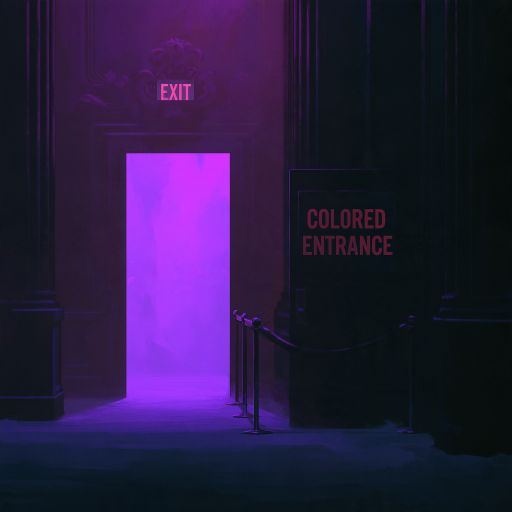
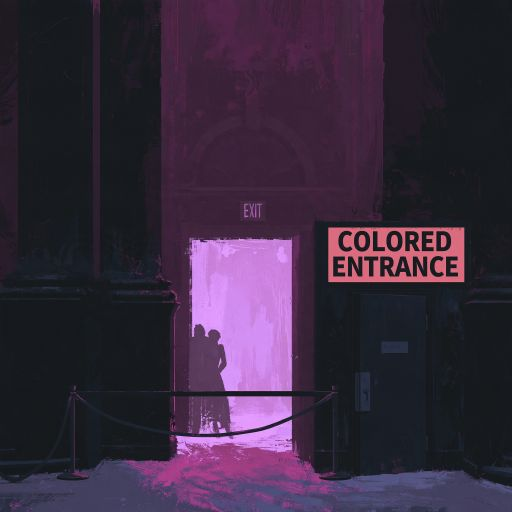
Art: the Land Office Threat, a new Color Line, Bois Caiman and the Ancestors Events
Threats at 512px; Events at the 1024px spec size. The Color Line portrait
is replaced. docs regenerated: one piece to go (Word of Mouth).

Claude-Session: https://claude.ai/code/session_01CdCWBBELLp3cWMWqqhgQtC

diff --git a/docs/art-needed.md b/docs/art-needed.md
@@ -1,6 +1,6 @@
 # Art needed
 
-Regenerated by `npm run docs` from what is in `public/art`. **4 to go, 108 in.** Send finished files in any zip, named anything; they get resized and filed under the ids below. Full framing rules in `docs/art-spec.md`.
+Regenerated by `npm run docs` from what is in `public/art`. **1 to go, 111 in.** Send finished files in any zip, named anything; they get resized and filed under the ids below. Full framing rules in `docs/art-spec.md`.
 
 Order of priority: cards in the most preset decks first, and among those the ones in the first three slots of a deck row (visible on the landing page without scrolling). Cards outside every preset deck come last: they show only in the Compendium and in random decks.
 
@@ -26,7 +26,6 @@ Square, 1024 px. One clear silhouette, high contrast, one signature colour per T
 
 | id | Threat | Family | Brief |
 |---|---|---|---|
-| `land_office` | The Land Office | Systemic Pressure | The Homestead Act of 1862 offered 160 acres for five years of residence, to citizens, which Black Americans were not until 1866. The Southern Homestead Act then opened poor land for ten years through slow and hostile land offices; about four thousand Black families got through. On the Plains some 3,500 more proved up, at Nicodemus, DeWitty, Dearfield and Blackdom, out of 1.6 million homesteads in all. |
 
 ## Events
 
@@ -34,13 +33,11 @@ Square, 1024 px, same crop as Characters; a scene rather than a portrait.
 
 | id | Event | Brief |
 |---|---|---|
-| `bois_caiman` | Bois Caïman | A pig, an oath, a week. Then the north of Saint-Domingue burned. |
-| `the_ancestors` | The Ancestors | Never in a deck. In one match out of four they come to whoever holds three Characters Inside at Accra, Ghana. |
 | `word_of_mouth` | Word of Mouth | Free, fast and usually right. It travels further where more of your people are. |
 
 ## In
 
 - characters (80): abraham_lincoln, absalom_jones, alonzo_herndon, anansi, ayuba_suleiman_diallo, bass_reeves, ben_woolfolk, bessie_coleman, black_jesus, booker_t_washington, boukman_dutty, bud_billiken, callie_house, cathay_williams, cecile_fatiman, chairteenth, charles_sumner, claudette_colvin, cotton_club_orchestra, daniel_payne, dave_the_potter, david_ruggles, denmark_vesey, edmonia_lewis, edward_bannister, elizabeth_freeman, frederick_douglass, george_washington_carver, george_wilson, harriet_powers, harriet_tubman, henry_mcneal_turner, henry_ossawa_tanner, ida_b_wells, james_lafayette, john_brown, john_russwurm, katherine_johnson, lewis_hayden, madam_cj_walker, mami_wata, mansa_musa, marcus_garvey, marie_laveau, mary_ann_shadd_cary, mary_ellen_pleasant, mary_seacole, menelik_ii, nanny_of_the_maroons, nehanda, og, ogun, omar_ibn_said, organizer, oshun, paul_laurence_dunbar, peter_prioleau, pharoah_and_tom, queen_nzinga, richard_allen, robert_duncanson, robert_smalls, roger_taney, samuel_ajayi_crowther, scott_joplin, shango, sleeping_car_porters, sojourner_truth, taytu_betul, thaddeus_stevens, tom_bass, toussaint_louverture, victor_hugo_green, william_lloyd_garrison, william_parker, william_still, yaa_asantewaa, yemoja, zora_neale_hurston, zumbi_dos_palmares
-- events (2): community_defense, reparations
-- threats (8): color_line, comfortable_complicity, dewolf_trade, dred_scott, housing_restriction, mob, paddy_roller, segregationist_patrol
+- events (4): bois_caiman, community_defense, reparations, the_ancestors
+- threats (9): color_line, comfortable_complicity, dewolf_trade, dred_scott, housing_restriction, land_office, mob, paddy_roller, segregationist_patrol
 - locations (20): accra_ghana, black_star, charleston_1822, cotton_club, gary_indiana, great_migration, greenwood, harlem_renaissance, harpers_ferry, jim_crow, juneteenth, justice_system, lagos, middle_passage, montgomery, oak_bluffs, sundown_town, sundown_town_night, the_stroll, the_tabernacle

diff --git a/docs/art-spec.md b/docs/art-spec.md
@@ -29,15 +29,14 @@ Confronting a Threat should feel like a showdown. To stage it we want, per Threa
 - none
 
 
-### events (3)
+### events (1)
 
-- `bois_caiman` **Bois Caïman**: A pig, an oath, a week. Then the north of Saint-Domingue burned.
-- `the_ancestors` **The Ancestors**: Never in a deck. In one match out of four they come to whoever holds three Characters Inside at Accra, Ghana.
 - `word_of_mouth` **Word of Mouth**: Free, fast and usually right. It travels further where more of your people are.
 
-### threats (1)
+### threats (0)
 
-- `land_office` **The Land Office**: The Homestead Act of 1862 offered 160 acres for five years of residence, to citizens, which Black Americans were not until 1866. The Southern Homestead Act then opened poor land for ten years through slow and hostile land offices; about four thousand Black families got through. On the Plains some 3,500 more proved up, at Nicodemus, DeWitty, Dearfield and Blackdom, out of 1.6 million homesteads in all.
+- none
+
 
 ### locations (0)
 
@@ -52,6 +51,6 @@ Confronting a Threat should feel like a showdown. To stage it we want, per Threa
 ## Have
 
 - characters: abraham_lincoln, absalom_jones, alonzo_herndon, anansi, ayuba_suleiman_diallo, bass_reeves, ben_woolfolk, bessie_coleman, black_jesus, booker_t_washington, boukman_dutty, bud_billiken, callie_house, cathay_williams, cecile_fatiman, chairteenth, charles_sumner, claudette_colvin, cotton_club_orchestra, daniel_payne, dave_the_potter, david_ruggles, denmark_vesey, edmonia_lewis, edward_bannister, elizabeth_freeman, frederick_douglass, george_washington_carver, george_wilson, harriet_powers, harriet_tubman, henry_mcneal_turner, henry_ossawa_tanner, ida_b_wells, james_lafayette, john_brown, john_russwurm, katherine_johnson, lewis_hayden, madam_cj_walker, mami_wata, mansa_musa, marcus_garvey, marie_laveau, mary_ann_shadd_cary, mary_ellen_pleasant, mary_seacole, menelik_ii, nanny_of_the_maroons, nehanda, og, ogun, omar_ibn_said, organizer, oshun, paul_laurence_dunbar, peter_prioleau, pharoah_and_tom, queen_nzinga, richard_allen, robert_duncanson, robert_smalls, roger_taney, samuel_ajayi_crowther, scott_joplin, shango, sleeping_car_porters, sojourner_truth, taytu_betul, thaddeus_stevens, tom_bass, toussaint_louverture, victor_hugo_green, william_lloyd_garrison, william_parker, william_still, yaa_asantewaa, yemoja, zora_neale_hurston, zumbi_dos_palmares
-- events: community_defense, reparations
-- threats: color_line, comfortable_complicity, dewolf_trade, dred_scott, housing_restriction, mob, paddy_roller, segregationist_patrol
+- events: bois_caiman, community_defense, reparations, the_ancestors
+- threats: color_line, comfortable_complicity, dewolf_trade, dred_scott, housing_restriction, land_office, mob, paddy_roller, segregationist_patrol
 - locations: accra_ghana, black_star, charleston_1822, cotton_club, gary_indiana, great_migration, greenwood, harlem_renaissance, harpers_ferry, jim_crow, juneteenth, justice_system, lagos, middle_passage, montgomery, oak_bluffs, sundown_town, sundown_town_night, the_stroll, the_tabernacle
